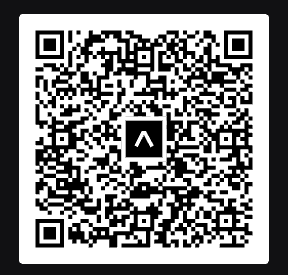
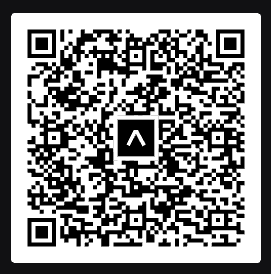
feat: skills page

diff --git a/my-portfolio/src/utils/skillsData.js b/my-portfolio/src/utils/skillsData.js
@@ -1,0 +1,66 @@
+import laravelImg from '../assets/tech-logo/laravel.svg';
+import expoImg from '../assets/tech-logo/expo.svg';
+import solidityImg from '../assets/tech-logo/solidity.svg';
+import chakrauiImg from '../assets/tech-logo/chakraui.svg';
+
+export const techStackLanguages = [
+  { name: "Java", logo: "https://cdn.jsdelivr.net/gh/devicons/devicon/icons/java/java-original.svg" },
+  { name: "JavaScript", logo: "https://cdn.jsdelivr.net/gh/devicons/devicon/icons/javascript/javascript-original.svg" },
+  { name: "TypeScript", logo: "https://cdn.jsdelivr.net/gh/devicons/devicon/icons/typescript/typescript-original.svg" },
+  { name: "Python", logo: "https://cdn.jsdelivr.net/gh/devicons/devicon/icons/python/python-original.svg" },
+  { name: "PHP", logo: "https://cdn.jsdelivr.net/gh/devicons/devicon/icons/php/php-original.svg" },
+  { name: "R", logo: "https://cdn.jsdelivr.net/gh/devicons/devicon/icons/r/r-original.svg" },
+  { name: "HTML", logo: "https://cdn.jsdelivr.net/gh/devicons/devicon/icons/html5/html5-original.svg" },
+  { name: "CSS", logo: "https://cdn.jsdelivr.net/gh/devicons/devicon/icons/css3/css3-original.svg" },
+  { name: "SQL", logo: "https://cdn.jsdelivr.net/gh/devicons/devicon/icons/mysql/mysql-original.svg" },
+  { name: "Solidity", logo: solidityImg }
+];
+
+export const techStackBackendFramework = [
+  { name: "NestJS", logo: "https://nestjs.com/img/logo-small.svg" },
+  { name: "Django", logo: "https://cdn.jsdelivr.net/gh/devicons/devicon/icons/django/django-plain.svg" },
+  { name: "Laravel", logo: laravelImg },
+  { name: "Express.js", logo: "https://cdn.jsdelivr.net/gh/devicons/devicon/icons/express/express-original.svg" },
+  { name: "Socket.IO", logo: "https://cdn.jsdelivr.net/gh/devicons/devicon/icons/socketio/socketio-original.svg" }
+];
+
+export const techStackFrontendFramework = [
+  { name: "React", logo: "https://cdn.jsdelivr.net/gh/devicons/devicon/icons/react/react-original.svg" },
+  { name: "React Native", logo: "https://cdn.jsdelivr.net/gh/devicons/devicon/icons/react/react-original.svg" },
+  { name: "Expo", logo: expoImg },
+  { name: "Next.js", logo: "https://cdn.jsdelivr.net/gh/devicons/devicon/icons/nextjs/nextjs-original-wordmark.svg" },
+  { name: "Tailwind CSS", logo: "https://cdn.jsdelivr.net/gh/devicons/devicon/icons/tailwindcss/tailwindcss-original.svg" },
+  { name: "Bootstrap", logo: "https://cdn.jsdelivr.net/gh/devicons/devicon/icons/bootstrap/bootstrap-original.svg" },
+  { name: "Material UI", logo: "https://cdn.jsdelivr.net/gh/devicons/devicon/icons/materialui/materialui-original.svg" },
+  { name: "Ant Design", logo: "https://cdn.jsdelivr.net/gh/devicons/devicon/icons/antdesign/antdesign-original.svg" },
+  { name: "Chakra UI", logo: chakrauiImg },
+  { name: "Framer Motion", logo: "https://seeklogo.com/images/F/framer-motion-logo-DA1E33CAA1-seeklogo.com.png" },
+  { name: "Shadcn UI", logo: "https://avatars.githubusercontent.com/u/139895814?s=200&v=4" }
+];
+
+export const techStackDevOps = [
+  { name: "Git", logo: "https://cdn.jsdelivr.net/gh/devicons/devicon/icons/git/git-original.svg" },
+  { name: "Docker", logo: "https://cdn.jsdelivr.net/gh/devicons/devicon/icons/docker/docker-original.svg" },
+  { name: "AWS S3", logo: "https://a0.awsstatic.com/libra-css/images/logos/aws_logo_smile_1200x630.png" }, // AWS general logo
+  { name: "Vercel", logo: "https://assets.vercel.com/image/upload/front/favicon/vercel/favicon.ico" },
+  { name: "Render", logo: "https://dashboard.render.com/favicon.ico" },
+  { name: "Postman", logo: "https://cdn.jsdelivr.net/gh/devicons/devicon/icons/postman/postman-icon.svg" }
+];
+
+export const techStackDatabases = [
+  { name: "MySQL", logo: "https://cdn.jsdelivr.net/gh/devicons/devicon/icons/mysql/mysql-original.svg" },
+  { name: "MongoDB", logo: "https://cdn.jsdelivr.net/gh/devicons/devicon/icons/mongodb/mongodb-original.svg" }
+];
+
+export const techStackAnalytics = [
+  { name: "Google Analytics", logo: "https://www.gstatic.com/analytics-suite/header/suite/v2/ic_analytics.svg" },
+  { name: "Tableau", logo: "https://cdn.worldvectorlogo.com/logos/tableau-software.svg" },
+  { name: "Power BI", logo: "https://upload.wikimedia.org/wikipedia/commons/c/cf/New_Power_BI_Logo.svg" }
+];
+
+export const productSkills = [
+  { name: "Requirement Analysis" }, { name: "Product Development Planning" }, { name: "Feature Prioritization" },
+  { name: "Use Case Modeling" }, { name: "UML Design" }, { name: "System Architecture" },
+  { name: "Market Research & Analysis" }, { name: "Financial Forecasting" }, { name: "Wireframes & UI/UX Design" },
+  { name: "Technical Documentation" }
+];

diff --git a/my-portfolio/src/components/Skills.jsx b/my-portfolio/src/components/Skills.jsx
@@ -1,0 +1,90 @@
+import React from 'react';
+import { motion } from 'framer-motion';
+import { Badge } from "@/components/ui/badge";
+import { Card, CardContent } from "../components/ui/card";
+import {
+  Tabs,
+  TabsContent,
+  TabsList,
+  TabsTrigger,
+} from "../components/ui/tabs"
+import { productSkills, techStackAnalytics, techStackBackendFramework, techStackDatabases, techStackDevOps, techStackFrontendFramework, techStackLanguages } from '@/utils/skillsData';
+
+const SectionCard = ({ title, items }) => (
+  <motion.div
+    initial={{ opacity: 0, y: 20 }}
+    whileInView={{ opacity: 1, y: 0 }}
+    transition={{ duration: 0.6 }}
+    viewport={{ once: true }}
+    className="w-full"
+  >
+    <Card className="bg-white dark:bg-gray-900 border dark:border-gray-700 shadow-md rounded-2xl py-4 px-6 h-full flex flex-col">
+      <h4 className="text-lg font-semibold">{title}</h4>
+      <CardContent className="flex flex-wrap gap-4 p-0">
+        {items.map((item, index) => (
+          <Badge
+            key={index}
+            className="text-xs px-3 py-1 bg-blue-100 text-blue-600 dark:bg-blue-800 dark:text-blue-100"
+          >
+            {item.logo && (
+              <img
+                src={item.logo}
+                alt={item.name}
+                className="w-4 h-4 mr-1 inline-block"
+              />
+            )}
+            {item.name && (
+              <span>{item.name}</span>
+            )}
+          </Badge>
+        ))}
+      </CardContent>
+    </Card>
+  </motion.div>
+);
+
+export default function Skills() {
+  return (
+    <section
+      id="skills"
+      className="bg-gray-100 dark:bg-gray-950 text-gray-900 dark:text-white transition-colors duration-300 py-20 px-6"
+    >
+      <div className="max-w-7xl mx-auto flex flex-col items-center">
+        <h2 className="text-4xl font-bold mb-16 text-center">Skills</h2>
+
+        <Tabs defaultValue="technical" className="w-full flex flex-col items-center">
+          <TabsList className="mb-8 bg-white dark:bg-gray-800 shadow-md">
+            <TabsTrigger
+              value="technical"
+              className="px-6 py-2 text-lg font-medium  transition-colors data-[state=active]:bg-blue-100 dark:data-[state=active]:bg-blue-900"
+            >
+              Technical
+            </TabsTrigger>
+            <TabsTrigger
+              value="product"
+              className="px-6 py-2 text-lg font-medium  transition-colors data-[state=active]:bg-blue-100 dark:data-[state=active]:bg-blue-900"
+            >
+              Product
+            </TabsTrigger>
+          </TabsList>
+
+          {/* Technical Skills Tab */}
+          <TabsContent value="technical" className="w-full grid grid-cols-1 md:grid-cols-2 gap-8">
+            <SectionCard title="Programming Languages" items={techStackLanguages} />
+            <SectionCard title="Backend Frameworks" items={techStackBackendFramework} />
+            <SectionCard title="Frontend Frameworks & Libraries" items={techStackFrontendFramework} />
+            <SectionCard title="Databases" items={techStackDatabases} />
+            <SectionCard title="DevOps & Tools" items={techStackDevOps} />
+            <SectionCard title="Analytics Tools" items={techStackAnalytics} />
+          </TabsContent>
+
+          {/* Product Skills Tab */}
+          <TabsContent value="product" className="w-5/6 grid grid-rows-1 gap-6">
+            <SectionCard title="Product Management Skills" items={productSkills} />
+          </TabsContent>
+        </Tabs>
+
+      </div>
+    </section>
+  );
+}

diff --git a/my-portfolio/src/utils/projectData.js b/my-portfolio/src/utils/projectData.js
@@ -18,6 +18,7 @@ import javaImg from "../assets/tech-logo/java.svg"
 import smartsgImg from "../assets/smartsg/smartsg1.png";
 import merlionImg from "../assets/merlion/merlion1.png";
 import shelfserveImg from "../assets/shelfserve/shelfserve1.png";
+import shelfserveImg2 from "../assets/shelfserve/shelfserve2.png";
 
 const notSorted = [
 	{
@@ -70,8 +71,8 @@ const notSorted = [
 		date: "Jan - Apr 2025",
 		category: "Mobile app & web / full-stack",
 		sites: [
-			{ name: "Chio", link: "https://github.com/timothyhfusanto/chio" },
-			{ name: "Chio Admin", link: "https://chio-admin-timothyhfusantos-projects.vercel.app/", qr: chioqrImg },
+			{ name: "Chio", link: "https://github.com/timothyhfusanto/chio", qr: chioqrImg },
+			{ name: "Chio Admin", link: "https://chioadmin.vercel.app/" },
 		]
 	},
 	{
@@ -208,7 +209,7 @@ const notSorted = [
 		],
 		link: {
 			github: "",
-			report: "",
+			report: "https://docs.google.com/document/d/1UK20Evbm2YDwGrimBiXvNHj7GcCMMTTzfdV6Ny6xN1U/edit?usp=sharing",
 			slides: ""
 		},
 		details: "/project/smartfurnituresg",
@@ -251,7 +252,7 @@ const notSorted = [
 		id: "shelfserve",
 		name: "ShelfServe",
 		type: "product",
-		images: [shelfserveImg],
+		images: [shelfserveImg, shelfserveImg2],
 		description: "Inventory management product for healthcare",
 		fullDescription: "ShelfServe is a smart weight sensor system designed to help healthcare professionals manage inventory with real-time stock monitoring and automated threshold alerts. It features a user-friendly software interface that enables easy access to actionable data, empowering healthcare teams to make informed, timely inventory decisions.",
 		stack: [
@@ -271,7 +272,6 @@ const notSorted = [
 			{ name: "UI/UX Design" },
 			{ name: "Technical Documentation" },
 			{ name: "Stakeholder Interviewing" },
-			{ name: "Figma", logo: "https://cdn.jsdelivr.net/gh/devicons/devicon/icons/figma/figma-original.svg" }
 		],
 		link: {
 			report: "https://docs.google.com/document/d/1Ujh0TMP2kdQJwXth5fpYJKnQuHh7_1JbP8xxQmGkQSI/edit?usp=sharing",

diff --git a/my-portfolio/src/components/ui/tabs.tsx b/my-portfolio/src/components/ui/tabs.tsx
@@ -1,0 +1,64 @@
+import * as React from "react"
+import * as TabsPrimitive from "@radix-ui/react-tabs"
+
+import { cn } from "@/lib/utils"
+
+function Tabs({
+  className,
+  ...props
+}: React.ComponentProps<typeof TabsPrimitive.Root>) {
+  return (
+    <TabsPrimitive.Root
+      data-slot="tabs"
+      className={cn("flex flex-col gap-2", className)}
+      {...props}
+    />
+  )
+}
+
+function TabsList({
+  className,
+  ...props
+}: React.ComponentProps<typeof TabsPrimitive.List>) {
+  return (
+    <TabsPrimitive.List
+      data-slot="tabs-list"
+      className={cn(
+        "bg-muted text-muted-foreground inline-flex h-9 w-fit items-center justify-center rounded-lg p-[3px]",
+        className
+      )}
+      {...props}
+    />
+  )
+}
+
+function TabsTrigger({
+  className,
+  ...props
+}: React.ComponentProps<typeof TabsPrimitive.Trigger>) {
+  return (
+    <TabsPrimitive.Trigger
+      data-slot="tabs-trigger"
+      className={cn(
+        "data-[state=active]:bg-background dark:data-[state=active]:text-foreground focus-visible:border-ring focus-visible:ring-ring/50 focus-visible:outline-ring dark:data-[state=active]:border-input dark:data-[state=active]:bg-input/30 text-foreground dark:text-muted-foreground inline-flex h-[calc(100%-1px)] flex-1 items-center justify-center gap-1.5 rounded-md border border-transparent px-2 py-1 text-sm font-medium whitespace-nowrap transition-[color,box-shadow] focus-visible:ring-[3px] focus-visible:outline-1 disabled:pointer-events-none disabled:opacity-50 data-[state=active]:shadow-sm [&_svg]:pointer-events-none [&_svg]:shrink-0 [&_svg:not([class*='size-'])]:size-4",
+        className
+      )}
+      {...props}
+    />
+  )
+}
+
+function TabsContent({
+  className,
+  ...props
+}: React.ComponentProps<typeof TabsPrimitive.Content>) {
+  return (
+    <TabsPrimitive.Content
+      data-slot="tabs-content"
+      className={cn("flex-1 outline-none", className)}
+      {...props}
+    />
+  )
+}
+
+export { Tabs, TabsList, TabsTrigger, TabsContent }

diff --git a/my-portfolio/src/pages/ProjectDetails.jsx b/my-portfolio/src/pages/ProjectDetails.jsx
@@ -117,7 +117,7 @@ export default function ProjectDetails() {
             <DropdownMenu>
               {(project.link.github || project.link.report || project.link.slides) && (
                 <DropdownMenuTrigger asChild>
-                  <Button variant='outline'>View Project <ChevronDown /></Button>
+                  <Button variant='outline'>View project details<ChevronDown /></Button>
                 </DropdownMenuTrigger>
               )}
               <DropdownMenuContent className="w-56 bg-white dark:bg-gray-900 text-black dark:text-white border border-gray-200 dark:border-gray-700 shadow-lg">

diff --git a/my-portfolio/src/App.jsx b/my-portfolio/src/App.jsx
@@ -8,6 +8,7 @@ import Projects from './components/Projects';
 import Contact from './components/Contact';
 import ProjectDetails from './pages/ProjectDetails';
 import { Toaster } from 'react-hot-toast';
+import Skills from './components/Skills';
 
 function App() {
 
@@ -25,6 +26,7 @@ function App() {
                 <About />
                 <Education />
                 <Projects />
+                <Skills />
                 <Contact />
               </>
             } />

diff --git a/my-portfolio/src/components/Projects.jsx b/my-portfolio/src/components/Projects.jsx
@@ -36,7 +36,7 @@ export default function Projects() {
               value={textQuery}
               onChange={(e) => setTextQuery(e.target.value)}
             />
-            <div className="absolute inset-y-0 left-4 bottom-3 flex items-center pointer-events-none">
+            <div className="absolute inset-y-0 left-4 flex items-center pointer-events-none">
               <Search className="w-5 h-5 text-gray-400" />
             </div>
           </div>

diff --git a/my-portfolio/src/components/Navbar.jsx b/my-portfolio/src/components/Navbar.jsx
@@ -2,7 +2,7 @@ import React, { useEffect, useState } from 'react';
 import { useLocation } from 'react-router-dom';
 import { Menu, X } from 'react-feather';
 
-const sections = ['home', 'about', 'education', 'projects', 'contact'];
+const sections = ['home', 'about', 'education', 'projects', 'skills', 'contact'];
 
 export default function Navbar() {
   const [activeSection, setActiveSection] = useState('home');
